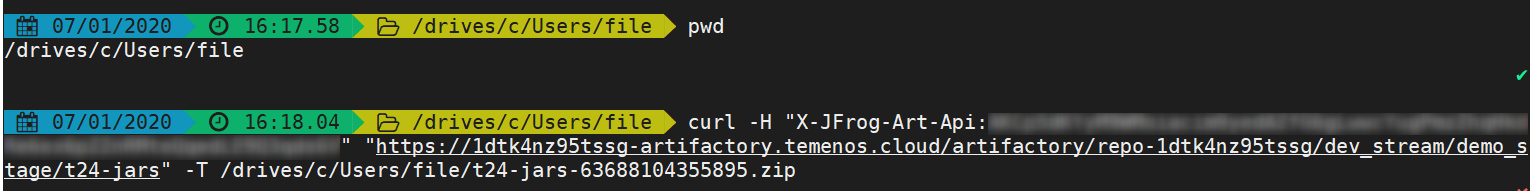
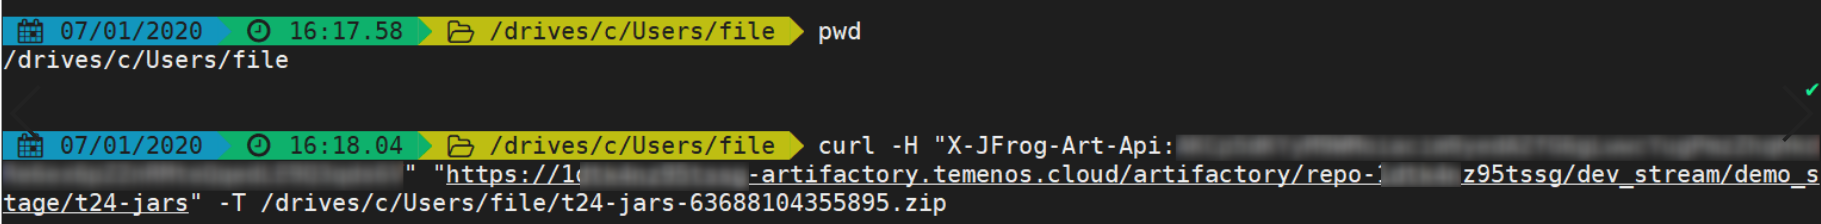
updated

diff --git a/docfx_project/home/techguides/components-products.md b/docfx_project/home/techguides/components-products.md
@@ -148,7 +148,7 @@ In order to invoke that Artifactory API a CURL command must be executed (this ca
 > Open source doesn’t support multiple file uploads at a time, therefore you need to upload the required binaries one by one.
 
 **Example of the curl command based on the above**: 
-curl -H "X-JFrog-Art-Api:AKCp5dKYyM9WMoiacim9yedAZfG6gLwwcYugPmzZhqHkdRe6ex6pZZnRMteQqedLE9Q3qds6V" "https://1dtk4nz95tssg-artifactory.temenos.cloud/artifactory/repo-1dtk4nz95tssg/dev_stream/demo_stage/t24-jars" -T /drives/c/Users/file/t24-jars-63688104355895.zip
+curl -H "X-JFrog-Art-Api:AKPp5dKYsrreear46t4e6ett7t7x6pZZnRMteeffsLE9Q3qds6V" "https://1dtk4nz95bmnw-artifactory.temenos.cloud/artifactory/repo-1dtk4nz95tssg/dev_stream/demo_stage/t24-jars" -T /drives/c/Users/file/t24-jars-63688104355895.zip
 
 For demo purposes, we used MobaXterm to upload the binary into the Artifactory as displayed below:
 ![](./images/components-products-mobaxterm.png)
